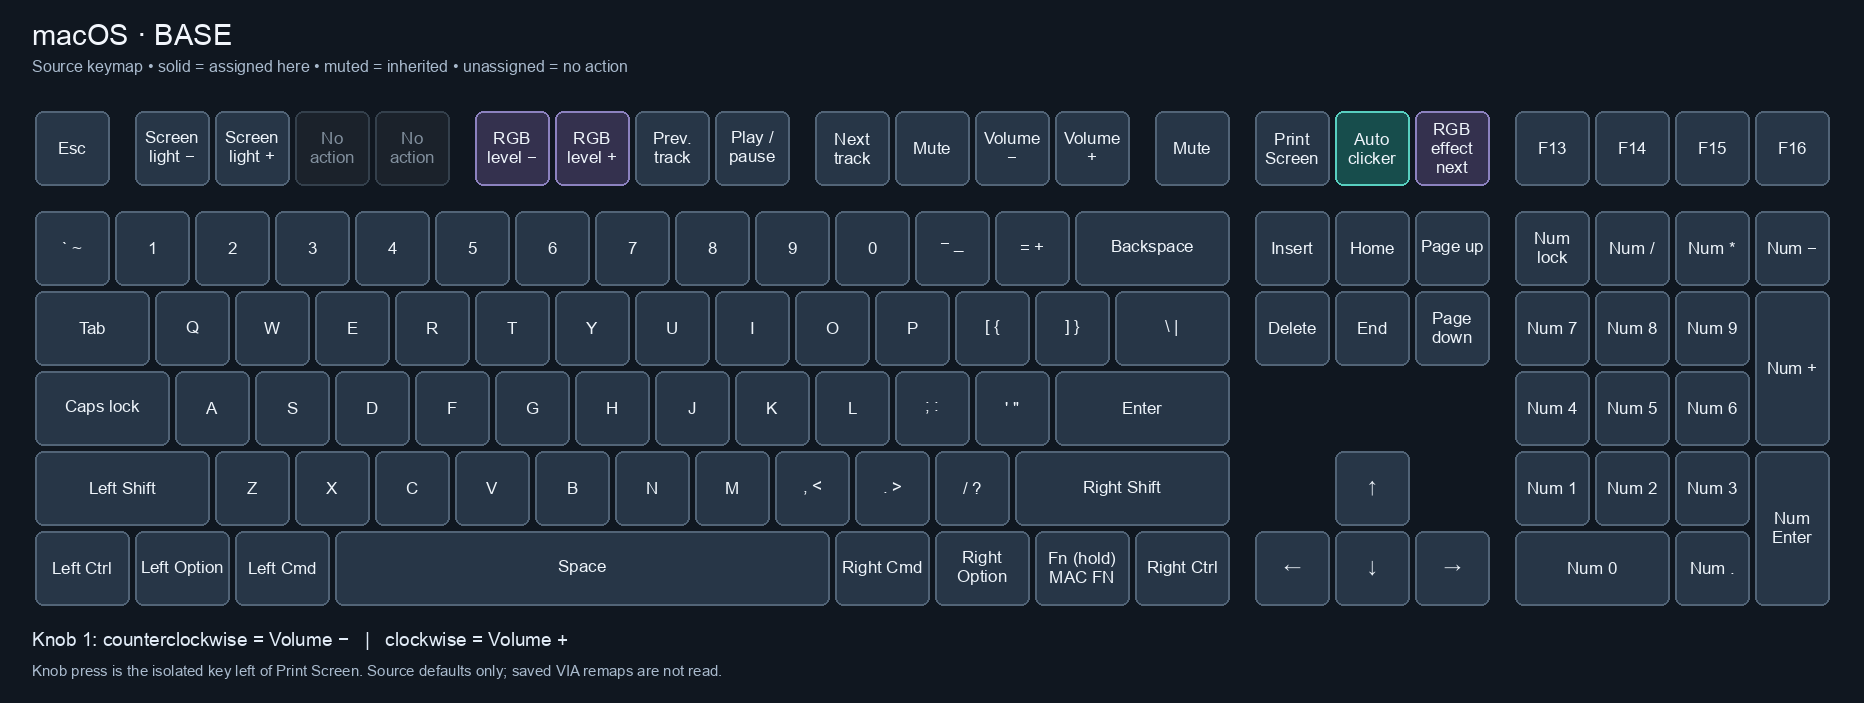
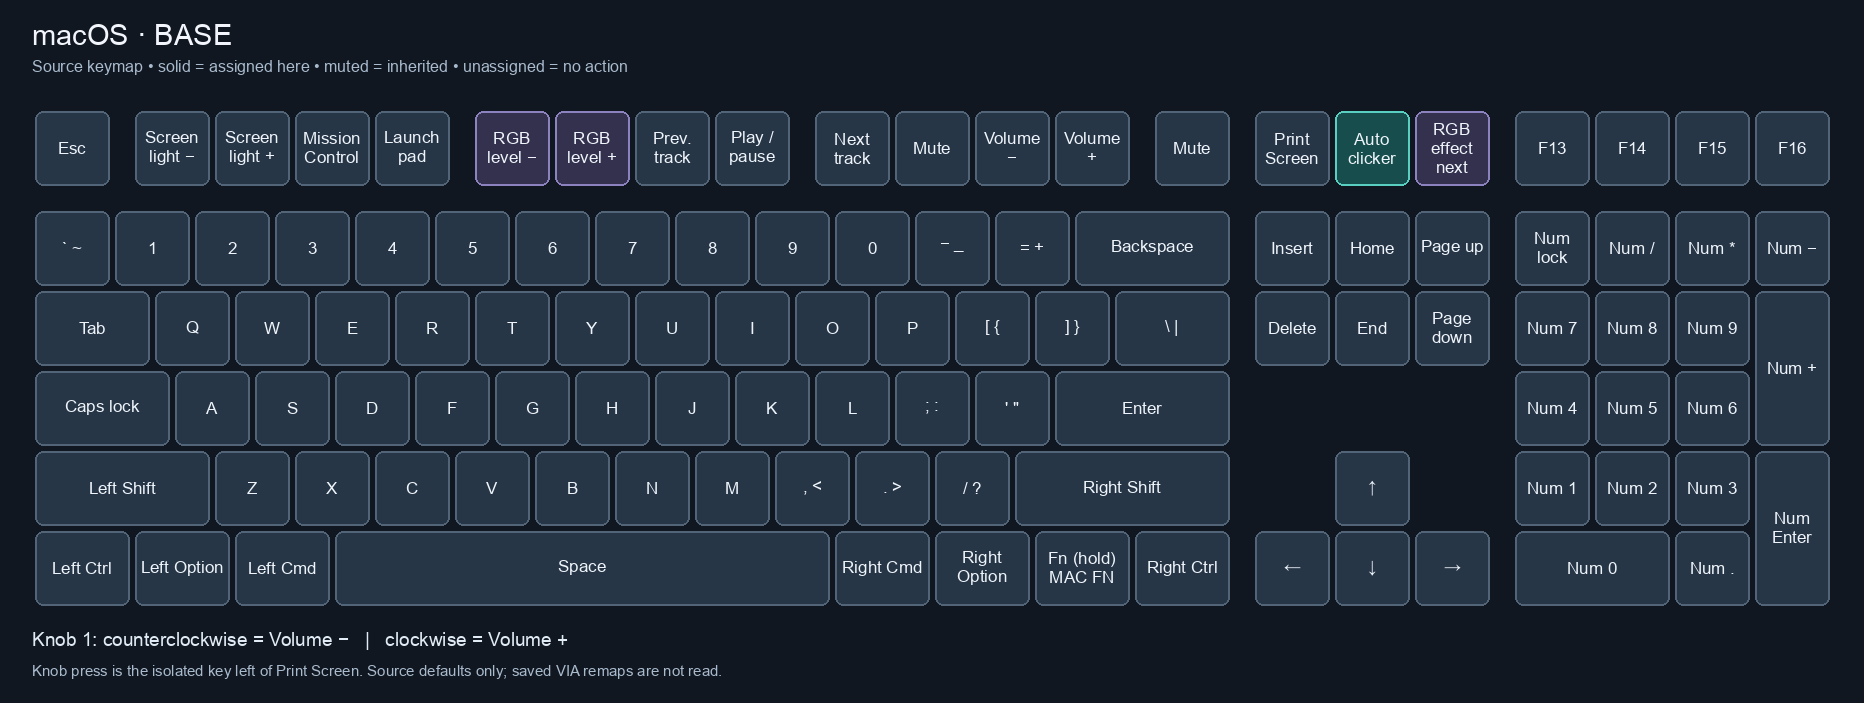
Add Mac Mission Control and Launchpad keys and refresh layer images

Changed region(s): [[0.1556, 0.1494, 0.2489, 0.2688]]

diff --git a/keyboards/keychron/v6/ansi_encoder/keymaps/bregmi/keymap.c b/keyboards/keychron/v6/ansi_encoder/keymaps/bregmi/keymap.c
@@ -30,7 +30,7 @@ enum layers{
 
 const uint16_t PROGMEM keymaps[][MATRIX_ROWS][MATRIX_COLS] = {
     [MAC_BASE] = LAYOUT_ansi_109(
-        KC_ESC,   KC_BRID,  KC_BRIU,  KC_NO,    KC_NO,    RM_VALD,  RM_VALU,  KC_MPRV,  KC_MPLY,  KC_MNXT,  KC_MUTE,  KC_VOLD,  KC_VOLU,    KC_MUTE,    KC_PSCR,  TURBO,  RM_NEXT,  KC_F13,   KC_F14,   KC_F15,   KC_F16,
+        KC_ESC,   KC_BRID,  KC_BRIU,  KC_MCTL,  KC_LPAD,    RM_VALD,  RM_VALU,  KC_MPRV,  KC_MPLY,  KC_MNXT,  KC_MUTE,  KC_VOLD,  KC_VOLU,    KC_MUTE,    KC_PSCR,  TURBO,  RM_NEXT,  KC_F13,   KC_F14,   KC_F15,   KC_F16,
         KC_GRV,   KC_1,     KC_2,     KC_3,     KC_4,     KC_5,     KC_6,     KC_7,     KC_8,     KC_9,     KC_0,     KC_MINS,  KC_EQL,     KC_BSPC,    KC_INS,   KC_HOME,  KC_PGUP,  KC_NUM,   KC_PSLS,  KC_PAST,  KC_PMNS,
         KC_TAB,   KC_Q,     KC_W,     KC_E,     KC_R,     KC_T,     KC_Y,     KC_U,     KC_I,     KC_O,     KC_P,     KC_LBRC,  KC_RBRC,    KC_BSLS,    KC_DEL,   KC_END,   KC_PGDN,  KC_P7,    KC_P8,    KC_P9,
         KC_CAPS,  KC_A,     KC_S,     KC_D,     KC_F,     KC_G,     KC_H,     KC_J,     KC_K,     KC_L,     KC_SCLN,  KC_QUOT,              KC_ENT,                                   KC_P4,    KC_P5,    KC_P6,    KC_PPLS,

diff --git a/tools/layer_viewer/render_layers.py b/tools/layer_viewer/render_layers.py
@@ -16,6 +16,7 @@ DISABLED = {'XXXXXXX', 'KC_NO'}
 LABELS = {
     'KC_ESC': 'Esc', 'KC_BRID': 'Screen\nlight −', 'KC_BRIU': 'Screen\nlight +',
     'KC_MPRV': 'Prev.\ntrack', 'KC_MPLY': 'Play /\npause', 'KC_MNXT': 'Next\ntrack',
+    'KC_MCTL': 'Mission\nControl', 'KC_LPAD': 'Launchpad',
     'KC_MUTE': 'Mute', 'KC_VOLD': 'Volume −', 'KC_VOLU': 'Volume +',
     'KC_PSCR': 'Print\nScreen', 'TURBO': 'Auto\nclicker', 'MOUSE_TURBO_CLICK': 'Auto\nclicker',
     'AC_TOGG': 'Auto\ncorrect\ntoggle', 'KC_SLEP': 'Sleep',

diff --git a/keyboards/keychron/v6/ansi_encoder/keymaps/bregmi/readme.md b/keyboards/keychron/v6/ansi_encoder/keymaps/bregmi/readme.md
@@ -9,7 +9,7 @@ Ported from origin/my_stuff (57bb3a72e6) to QMK 0.34.7
   encoder mappings. F13–F16 are available on both base layers.
 - Mac mode restores Option/Command positions, with Command next to Space,
   and Fn activates MAC_FN. The top row provides brightness/media controls;
-  Fn accesses F1–F12. F3/F4 positions are unassigned without Fn, as upstream.
+  Fn accesses F1–F12. F3 opens Mission Control; F4 sends Launchpad.
 - Windows mode retains its custom layout with F1–F12 directly available.
 - Turbo click remains on the key between Print Screen and the lighting key.
   Hold for repeated left clicks; double tap to latch; tap again to stop.
